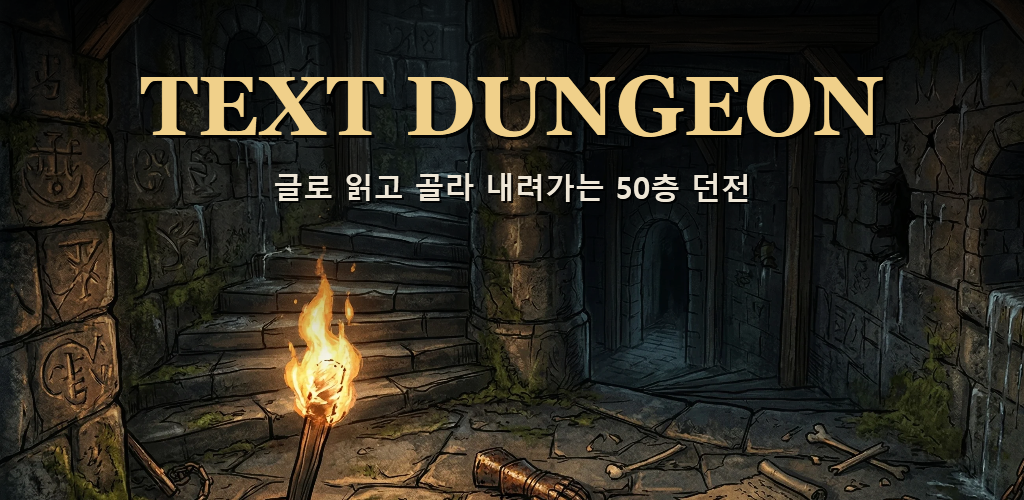
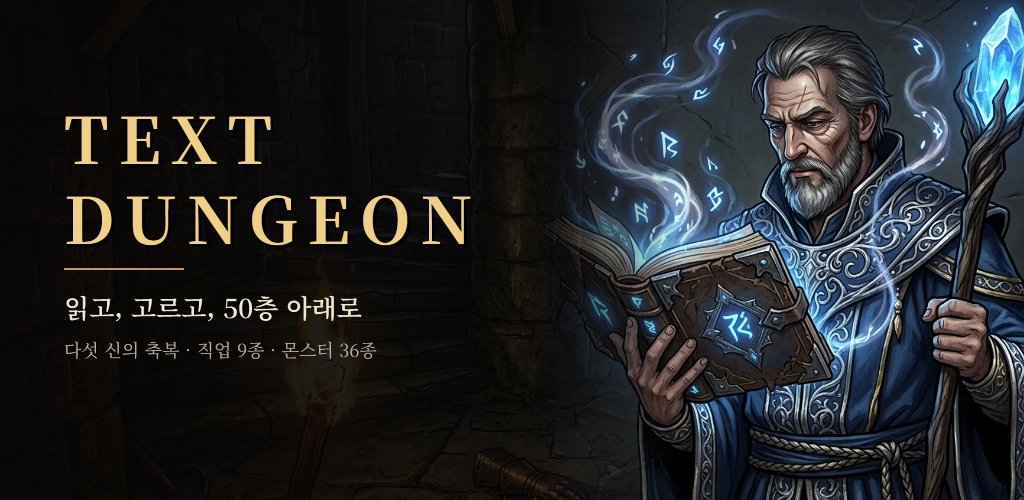
스토어 아이콘을 아치 위 TD로, 그래픽 이미지를 책 읽는 마법사로 바꿈

diff --git a/docs/release/스토어_등록정보.md b/docs/release/스토어_등록정보.md
@@ -52,6 +52,7 @@ TextDungeon은 글로 진행하는 던전 탐험 RPG입니다.
 | 그래픽 이미지 | 1024×500 PNG 또는 JPEG | `docs/release/store/feature_1024x500.png` |
 | 휴대전화 스크린샷 | 2~8장, 긴 변이 짧은 변의 2배 이하 | `docs/release/store/screenshot_*.png` |
 
-- 원본 그림 몇 장의 오른쪽 아래에 Gemini 별 표시가 있다. 아이콘과 그래픽 이미지에서는 그 부분을 잘라 냈다.
+- 아이콘: 타이틀 화면 배경(dungeon_entrance)의 아치 위에 금색 "TD". 그래픽 이미지: 던전 배경(game_background)을 어둡게 깔고 왼쪽에 제목, 오른쪽에 책을 읽는 마법사(job_mage). 글꼴은 게임 제목과 같은 계열인 Noto Serif KR(OFL, 상업 이용 가능).
+- 원본 그림 몇 장의 오른쪽 아래에 Gemini 별 표시가 있다. 직업 초상화는 액자 안쪽만 잘라 써서 표시가 들어가지 않는다.
 - 요즘 휴대폰 화면(20:9 등)은 2배를 넘는다. 스크린샷은 화면 전체를 1080×2160(2:1)에 줄여 넣고 양옆을 화면 가장자리 색으로 채웠다.
 - 스크린샷 4장은 에뮬레이터에서 찍었다: 치유의 샘 이벤트, 거대 쥐 전투, 캐릭터 선택(마법사), 상점. 에뮬레이터에는 AI 모델이 없어 신들의 이벤트 화면은 없다. 실제 휴대폰에서 신들의 이벤트 화면을 찍어 더하면 좋다.
